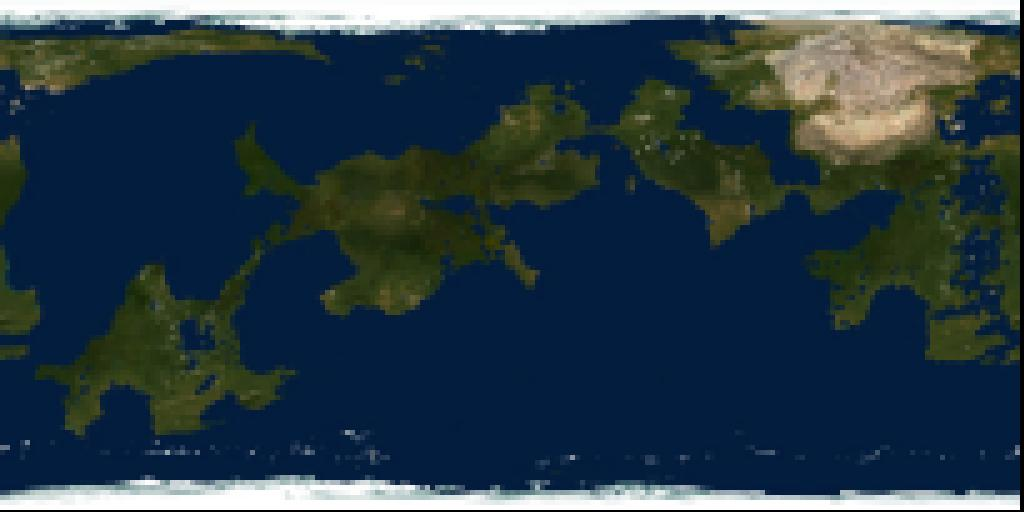
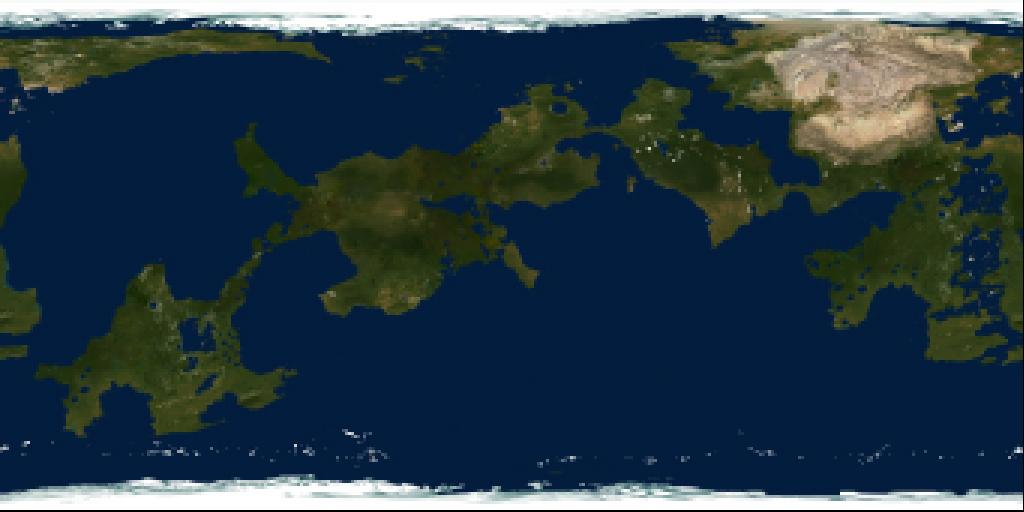
ajout copie couleur

diff --git a/src/CopieImage.java b/src/CopieImage.java
@@ -1,4 +1,5 @@
 import clustering.DBSCAN;
+import normes.*;
 
 import javax.imageio.ImageIO;
 import javax.naming.InsufficientResourcesException;
@@ -160,19 +161,41 @@ public class CopieImage {
     }
 
 
+    public void copyImageClosestColor(String outputPath, Palette p){
+        // create and save a new image
+        BufferedImage newImage = new BufferedImage(image.getWidth(), image.getHeight(), BufferedImage.TYPE_3BYTE_BGR);
+        for (int i = 0; i < image.getWidth(); i++) {
+            for (int j = 0; j < image.getHeight(); j++) {
+                int rgb = image.getRGB(i, j);
+                Color c = new Color(rgb);
+                Color closestColor = p.getPlusProche(c);
+                newImage.setRGB(i, j, closestColor.getRGB());
+            }
+        }
+        try {
+            ImageIO.write(newImage, "png", new File(outputPath));
+        } catch (IOException e) {
+            e.printStackTrace();
+        }
+    }
+
+
 
     public static void main(String[] args) {
 
 
         CopieImage copieImage = new CopieImage();
-        String inputPath = "cartes/Planete 4.jpg";
-        String outputPath = "cartes2/Planete4_flou.png";
+        String inputPath = "cartes/Planete 1.jpg";
+        String outputPath = "cartes2/Planete1_flou.png";
+        String outputPath2 = "cartes2/Planete1_flou_gauss.png";
+
+        String outputPathColor = "cartes2/Planete1_color.png";
 
 
         // Load and save the image
         copieImage.saveImage(inputPath);
 
-        FlouMoyen flou = new FlouMoyen(5);
+        FlouMoyen flou = new FlouMoyen(3);
         FlouGauss flou2 = new FlouGauss(5);
 
         // Write the image to a new file
@@ -180,10 +203,48 @@ public class CopieImage {
         copieImage.copyImageFlou(outputPath2, flou2);
 
         // On charge l'image flou
-        copieImage.saveImage(outputPath);
+        copieImage.saveImage(outputPath2);
 
 
+        // On créer la palette de couleurs
+        Color[] colors = {
+                new Color(0, 0, 0),       // Black
+                new Color(255, 255, 255), // White
+                new Color(255, 0, 0),     // Red
+                new Color(0, 255, 0),     // Lime
+                new Color(0, 0, 255),     // Blue
+                new Color(255, 255, 0),   // Yellow
+                new Color(0, 255, 255),   // Cyan
+                new Color(255, 0, 255),   // Magenta
+                new Color(192, 192, 192), // Light gray
+                new Color(128, 128, 128), // Gray
+                new Color(128, 0, 0),     // Maroon
+                new Color(128, 128, 0),   // Olive
+                new Color(0, 128, 0),     // Dark Green
+                new Color(128, 0, 128),   // Purple
+                new Color(0, 128, 128),   // Teal
+                new Color(0, 0, 128),     // Navy
 
+                new Color(255, 128, 0),   // Orange
+                new Color(255, 0, 128),   // Rose
+                new Color(128, 255, 0),   // Chartreuse
+                new Color(0, 255, 128),   // Aquamarine
+                new Color(0, 128, 255),   // Sky blue
+                new Color(128, 0, 255),   // Violet
+                new Color(255, 128, 128), // Salmon
+                new Color(128, 255, 255), // Light Cyan
+                new Color(128, 255, 128), // Light Green
+                new Color(255, 255, 128), // Light Yellow
+                new Color(255, 128, 255), // Light Magenta
+                new Color(192, 0, 192),   // Deep Pink
+                new Color(64, 64, 64),    // Dark Gray
+                new Color(160, 82, 45)    // Sienna
+        };
+
+        Palette p = new Palette(colors);
+
+        // On copie l'image en utilisant la palette de couleurs
+        copieImage.copyImageClosestColor(outputPathColor, p);
 
         /*
          * CLUSTERING DBSCAN

diff --git a/src/normes/Palette.java b/src/normes/Palette.java
@@ -1,0 +1,40 @@
+package normes;
+
+import java.awt.*;
+
+public class Palette {
+
+    Color[] colors;
+    NormeCouleurs norme;
+
+    public Palette(Color[] colors) {
+        this.colors = colors;
+    }
+
+    public Palette(Color[] colors, NormeCouleurs norme){
+        this.colors = colors;
+        this.norme = norme;
+    }
+
+    public Color getPlusProche(Color c){
+        Color closestColor = colors[0];
+        double minDistance = Double.MAX_VALUE;
+
+        for (Color color : colors) {
+            double distance;
+            if (norme != null) {
+                distance = norme.distanceCouleur(c, color);
+            }
+            else {
+                distance = Math.pow((c.getRed() - color.getRed()), 2)
+                        + Math.pow((c.getGreen() - color.getGreen()), 2)
+                        + Math.pow((c.getBlue() - color.getBlue()), 2);
+            }
+            if (distance < minDistance) {
+                minDistance = distance;
+                closestColor = color;
+            }
+        }
+        return closestColor;
+    }
+}
